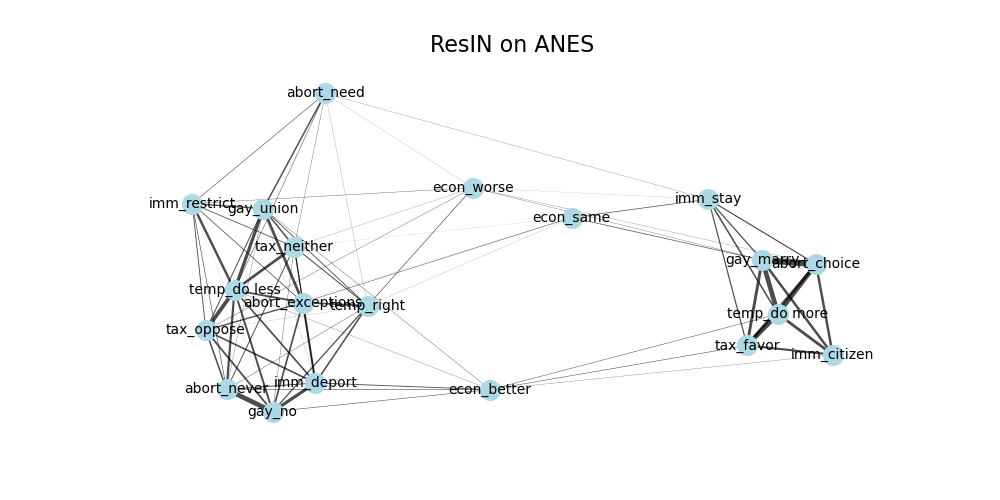
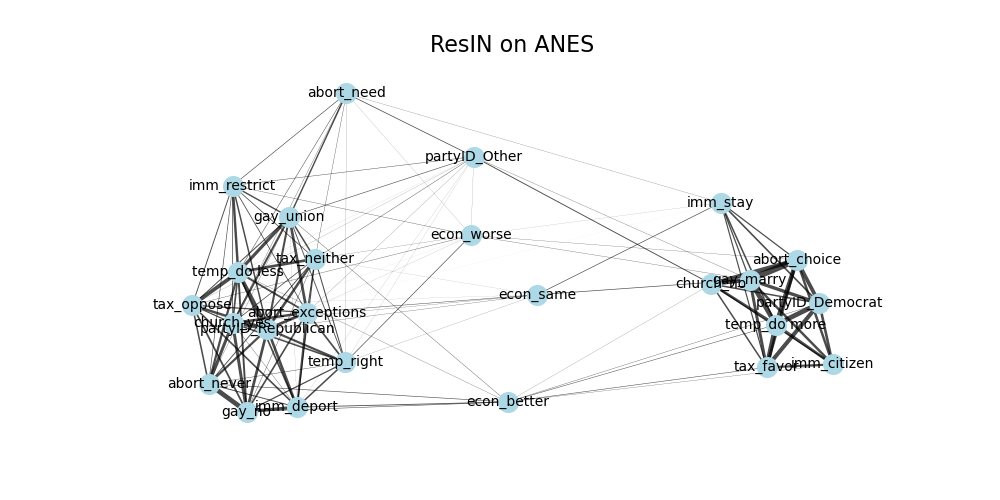
adding more variables to the ANES analysis, in particular, party identification, most important topics, and church attendance

diff --git a/ANES/1_resin.py b/ANES/1_resin.py
@@ -9,6 +9,75 @@ from sklearn.decomposition import PCA
 df, meta = pyreadstat.read_sav("data/2016_2020_mergedpanel.sav")
 df['id'] = df.index
 
+
+# new variables that could be fun # 
+### "symbolic"
+# V161156: Party identification strong - Democrat Republican
+# V161157: No party identification - closer to Dems or Reps 
+# V161155 (party identification; dem, rep, ind, etc.)
+
+### more beliefs
+# V161204: Does R favor or oppose affirmative action in universities
+# mention 1 most important problem facing countr: (V162116a)
+
+### behavior
+# V161244, V161245..: attending church. 
+
+# all below could be collapsed into one # 
+# V162018a: joined protest march
+# V162018b: signed petition
+# V162018c: given money to religious org. 
+# V162018d: given money to soc/pol org.
+# V162018e: sent message on facebook/X about political issues
+# V162019: contacted US representative or Senator.   
+
+# V162034: did R vote for president
+# V162034a: for whom
+# V162035: preference
+# --> this might be better, but post-election is also lots of missing.
+
+# most important problem facing countr: 
+df[['V162116a_1']].value_counts() 
+'''
+-6: no post-election interview.
+50. economy 
+32. race
+27. unemployment
+24. health
+81. unity/division
+38. budget
+41. immigration
+800. other 
+48. politicians
+52. economic inequality
+26. poverty 
+5. terrorism 
+... 
+'''
+
+# attending church
+df[['V161244']].value_counts() # ever: 1=yes, 2=no
+df[['V161245']].value_counts() # intense (1-2), medium (3-4), 5=never (-1 can be coded to no from V161244).
+
+# party identification: 
+df[['V161155']].value_counts() 
+
+'''
+0. no preference 
+1. democrat
+2. republican
+3. independent
+5. other party 
+'''
+
+# political action
+
+'''
+So one interesting hypothesis to explore in terms of drivers of change in voting behavior:
+- change of beliefs more important
+- change of focus (most important problems) more important. 
+'''
+
 # ------- data selection ----------------- #
 df = df[[
     # belief variables
@@ -41,6 +110,15 @@ df = df[[
     'V201032', # voted 2020
     'V201033', # voted (who) 2020
     'V201034', # voted (preference) 2020
+    # behavior
+    'V161244', # attending church 2016
+    'V201452', # attending church 2020
+    # symbolic
+    'V161155', # party identification 2016
+    'V201228', # party identification 2020
+    # focus / weight
+    'V162116a_1', # most important problem 2016
+    'V202205y1', # most important problem 2020
     ]]
 df = df.rename(
     columns={
@@ -73,7 +151,16 @@ df = df.rename(
         'V201030': 'prePref2020',
         'V201032': 'postVote2020',
         'V201033': 'postWho2020',
-        'V201034': 'postPref2020'
+        'V201034': 'postPref2020',
+        # rename behavior variables
+        'V161244': 'church2016',
+        'V201452': 'church2020',
+        # rename symbolic variables
+        'V161155': 'partyID2016',
+        'V201228': 'partyID2020',
+        # most important problems
+        'V162116a_1': 'focus2016',
+        'V202205y1': 'focus2020'
     }
 )
 
@@ -125,10 +212,10 @@ df['vote2020'] = df['postVote2020']
 df['vote2020'] = df['vote2020'].where(df['pre2020'] != 4, 1) 
 df['vote2020'] = df['vote2020'].where(df['pre2020'] != 1, 2)
 
-df['who2020'] = df['preWho2020'].where(df['pre2020']==4, df['postWho2016'])
+df['who2020'] = df['preWho2020'].where(df['pre2020']==4, df['postWho2020'])
 df['who2020'] = df['who2020'].where(df['vote2020'] != 2, 10)
 
-df['pref2020'] = df['prePref2020'].where(df['pre2020']==4, df['postPref2016'])
+df['pref2020'] = df['prePref2020'].where(df['pre2020']==4, df['postPref2020'])
 df['pref2020'] = df['pref2020'].where(df['vote2020'] != 2, 10)
 
 df = df.drop(columns={
@@ -147,6 +234,19 @@ df = df.drop(columns={
     'postWho2020',
     'postPref2020'})
 
+# also clean party ID 
+'''
+combined 0 (no preference) and 5 (other party) with 3 (independent)
+'''
+df['partyID2016'] = df['partyID2016'].where(df['partyID2016'] != 5, 3)
+df['partyID2016'] = df['partyID2016'].where(df['partyID2016'] !=0, 3)
+df['partyID2020'] = df['partyID2020'].where(df['partyID2020'] != 5, 3)
+df['partyID2020'] = df['partyID2020'].where(df['partyID2020'] !=0, 3)
+
+# also clean "focus"
+codes_stay = [50, 32, 27, 24, 81, 38, 41, 48, 52, 26, 5, 7, 17]
+df['focus2016'] = df['focus2016'].where(df['focus2016'].isin(codes_stay), 800)
+
 df = df.astype(int)
 df['ID'] = df.index
 df_long = df.melt(id_vars='ID', var_name='question', value_name='value')
@@ -155,6 +255,21 @@ df_long['question'] = df_long['question'].str.extract(r'([a-zA-Z]+)')
 
 # add question interpretation 
 code_answers = [
+    # focus variable
+    ('focus', 800, 'other-missing'),
+    ('focus', 50, 'economy'),
+    ('focus', 32, 'race'),
+    ('focus', 27, 'employment'),
+    ('focus', 24, 'health'),
+    ('focus', 81, 'unity'),
+    ('focus', 38, 'budget'),
+    ('focus', 41, 'immigration'),
+    ('focus', 48, 'politicians'),
+    ('focus', 52, 'inequality'),
+    ('focus', 26, 'poverty'),
+    ('focus', 5, 'terrorism'),
+    ('focus', 7, 'defence'),
+    ('focus', 17, 'environment'),
     # belief variables
     ('gay', 1, 'marry'),
     ('gay', 2, 'union'),
@@ -176,6 +291,13 @@ code_answers = [
     ('econ', 1, 'better'),
     ('econ', 2, 'worse'),
     ('econ', 3, 'same'),
+    # behavior variables
+    ('church', 1, 'yes'),
+    ('church', 2, 'no'),
+    # party identification
+    ('partyID', 1, 'Democrat'),
+    ('partyID', 2, 'Republican'),
+    ('partyID', 3, 'Other'),
     # voting variables
     ('vote', 1, 'Yes'),
     ('vote', 2, 'No'),
@@ -196,19 +318,6 @@ code_answers = [
 code_answers = pd.DataFrame(code_answers, columns=['question', 'value', 'answer'])
 df_long = pd.merge(df_long, code_answers, on=['question', 'value'], how='inner')
 
-# recode such that they follow reasonable likert
-#recode_map = {
-#    ('temp', 'do less'): 3,
-#    ('temp', 'right'): 2,
-#    ('tax', 'oppose'): 3,
-#    ('tax', 'neither'): 2,
-#    ('econ', 'worse'): 3,
-#    ('econ', 'same'): 2
-#}
-#def recode_values(row): 
-#    key = (row['question'], row['answer'])
-#    return recode_map[key] if key in recode_map else row['value']
-
 # for now just subset the voting answers # 
 variable_type = [
     # beliefs 
@@ -218,6 +327,9 @@ variable_type = [
     ('abort', 'belief'),
     ('tax', 'belief'),
     ('econ', 'belief'),
+    ('church', 'belief'),
+    ('partyID', 'belief'),
+    ('focus', 'belief'),
     # voting 
     ('vote', 'vote'),
     ('who', 'vote'),
@@ -230,7 +342,8 @@ df_long = df_long.merge(type_df, on = 'question', how = 'inner')
 df_long.to_csv('data/anes_complete.csv', index=False)
 
 # full answers from all IDs otherwise drop
-df_long = df_long[df_long['type']=='belief'] # only beliefs in the network
+# df_long = df_long[df_long['type']=='belief'] # only beliefs in the network
+df_long = df_long[df_long['question']!='vote']
 id_grouped = df_long.groupby('ID').size().reset_index(name='N')
 max_n = id_grouped['N'].max()
 id_grouped = id_grouped[id_grouped['N'] == max_n]
@@ -238,7 +351,7 @@ id_grouped = id_grouped['ID'].drop_duplicates()
 df_long = df_long.merge(id_grouped, on='ID', how='inner').reset_index(drop=True)
 
 # ----------------- data visualization ---------------------- #
-df_2016 = df_long[df_long['year'] == '2016']
+df_2016 = df_long[df_long['year'] == '2020']
 df_2016_wide = df_2016.pivot(index='ID', columns='question', values='answer')
 df_2016_dummies = pd.get_dummies(df_2016_wide)
 

diff --git a/ANES/4_outcome.py b/ANES/4_outcome.py
@@ -52,7 +52,7 @@ plt.xlabel('avg(x) 2016')
 plt.ylabel('avg(x) 2020')
 plt.suptitle('voting 2016')
 plt.tight_layout()
-plt.show()
+plt.savefig('figres/voting_2016.png')
 
 # 2020 plot
 df_p2_v = df_vote_who[df_vote_who['year']==2020]
@@ -71,24 +71,22 @@ plt.xlabel('avg(x) 2016')
 plt.ylabel('avg(x) 2020')
 plt.suptitle('voting 2020')
 plt.tight_layout()
-plt.show()
+plt.savefig('figres/voting_2020.png')
 
-# look only at the ones that shift 
-# we have almost no-one that shifted
-# less than 5% but that obscures missing values
-# and most of the ones that "transition"
-# simply transition to missing (nan). 
-import numpy as np 
+# look only at the ones that shift
 df_wide = df_vote_who.pivot(index='ID', columns='year', values='answer').reset_index()
 df_wide.columns = ['ID', 'vote_2016', 'vote_2020']
 df_wide['transition'] = df_wide['vote_2016'] != df_wide['vote_2020']
 df_wide_t = df_wide[df_wide['transition']==True]
-df_wide_t['vote_2016'] = df_wide_t['vote_2016'].replace(np.nan, 'NAN')
-df_wide_t['vote_2020'] = df_wide_t['vote_2020'].replace(np.nan, 'NAN')
+df_wide_t = df_wide_t.dropna()
 df_wide_t['transition_type'] = df_wide_t['vote_2016'] + ' --> ' + df_wide_t['vote_2020']
-df_wide_t = df_wide_t[df_wide_t['vote_2020']=='NAN']
 df_p3_merge = df_wide_t.merge(df_p1_b, on = 'ID', how = 'inner')
 
+# what might be interesting is is whether people vote at all 
+# okay basic prediction has to be: 
+# if you are consistently republican or democrat
+# then you will vote for them
+# otherwise either "other" or "not vote".
 fig, ax = plt.subplots(figsize = (7, 4))
 sns.scatterplot(
     data=df_p3_merge,
@@ -105,7 +103,34 @@ plt.suptitle('voting transitions')
 plt.tight_layout()
 plt.show()
 
-# what else do we have? 
-# problem really is that we cannot do the shift
-# it looked from the AUTNES data like they had better data on this
-# save some of this ...
+# just sanity check some of these
+# 1) who is this republican with democrat beliefs?
+rep_2020 = df_p2_merge[(df_p2_merge['average_x_2016']>0.6) &
+                (df_p2_merge['average_x_2020']>0.6) &
+                (df_p2_merge['answer']=='Republican')]
+rep_2016 = df_p1_merge[(df_p1_merge['average_x_2016']>0.6) &
+                       (df_p1_merge['average_x_2020']>0.6) & 
+                       (df_p1_merge['answer']=='Republican')]
+df_voting[df_voting['ID']==1813] # weak preference
+df_voting[df_voting['ID']==2515] # weak preference
+df_voting[df_voting['ID']==2669] # weak preference
+
+'''
+Yep, IDs: 1813, 2515, 2669 are just weird. 
+'''
+
+# 2) who are these republicans voting other? 
+rep_2020_o = df_p2_merge[(df_p2_merge['average_x_2016']<-0.4) &
+                (df_p2_merge['average_x_2020']<-0.4) &
+                (df_p2_merge['answer']=='Other')]
+rep_2016_o = df_p1_merge[(df_p1_merge['average_x_2016']<-0.4) &
+                       (df_p1_merge['average_x_2020']<-0.4) & 
+                       (df_p1_merge['answer']=='Other')]
+df_voting[df_voting['ID']==1043] # weak preference
+df_voting[df_voting['ID']==1048] # weak preference
+df_voting[df_voting['ID']==1985] # weak preference
+
+'''
+Interesting, these really should be consistent republicans.
+All have weak preference. 
+'''

diff --git a/ANES/2_mdl.py b/ANES/2_mdl.py
@@ -155,7 +155,7 @@ plot_individual(
     title = r'$|\Delta x_{i}| \sim |x_{i}(t-1)|$',
     xlab = r'$|x_{i}(t-1)|$',
     ylab = r'$|\Delta x_{i}|$',
-    save = 'figres/m2.png'
+    #save = 'figres/m2.png'
 )
 
 # plot model 3 
@@ -169,7 +169,7 @@ plot_question(
     title = r'$|\Delta x_{a, i}| \sim |dist(x_{p, i}, x_{a, i})|_{t-1}$',
     xlab = r'$|dist(x_{p, i}, x_{a, i})|_{t-1}$',
     ylab = r'$|\Delta x_{a, i}|$',
-    save = 'figres/m3.png'
+    #save = 'figres/m3.png'
 )
 
 # plot model 4 
@@ -181,7 +181,7 @@ plot_individual(
     title = r'$|\Delta x_{a, i}| \sim |std(x_{a, i})|$',
     xlab = r'$|std(x_{p, i})|$',
     ylab = r'$|\Delta x_{p, i}|$',
-    save = 'figres/m4.png'
+    #save = 'figres/m4.png'
 )
 
 # fig 5.
@@ -198,7 +198,7 @@ plot_individual(
     title = r'$avg(|\Delta x_{a, i}|) \sim |x_{p, i}(t-1)|$',
     xlab = r'$|x_{p, i}(t-1)|$',
     ylab = r'$avg(|\Delta x_{a, i}|)$',
-    save = 'figres/m5.png'
+    #save = 'figres/m5.png'
 )
 
 fig4_tweak = merged_df[['ID', 'xvalue_lag_std', 'xvalue_delta_abs']]
@@ -212,16 +212,5 @@ plot_individual(
     title = r'$avg(|\Delta x_{a, i}|) \sim |std(x_{a, i})|$',
     xlab = r'$|std(x_{a, i})|$',
     ylab = r'$avg(|\Delta x_{a, i}|)$',
-    save = 'figres/m6.png'
-)
-
-# find examples for the strongest effects that we have # 
-plot_question(
-    df = merged_df,
-    col_x = 'centroid_distance',
-    col_y = 'xvalue_delta_abs',
-    title = r'$|\Delta x_{a, i}| \sim |dist(x_{p, i}, x_{a, i})|_{t-1}$',
-    xlab = r'$|dist(x_{p, i}, x_{a, i})|_{t-1}$',
-    ylab = r'$|\Delta x_{a, i}|$',
-    save = 'figres/m3.png'
+    #save = 'figres/m6.png'
 )

diff --git a/ANES/5_fit_mdl.py b/ANES/5_fit_mdl.py
@@ -1,0 +1,4 @@
+import numpy as np 
+import pandas as pd 
+
+# XGBoost thing maybe?
